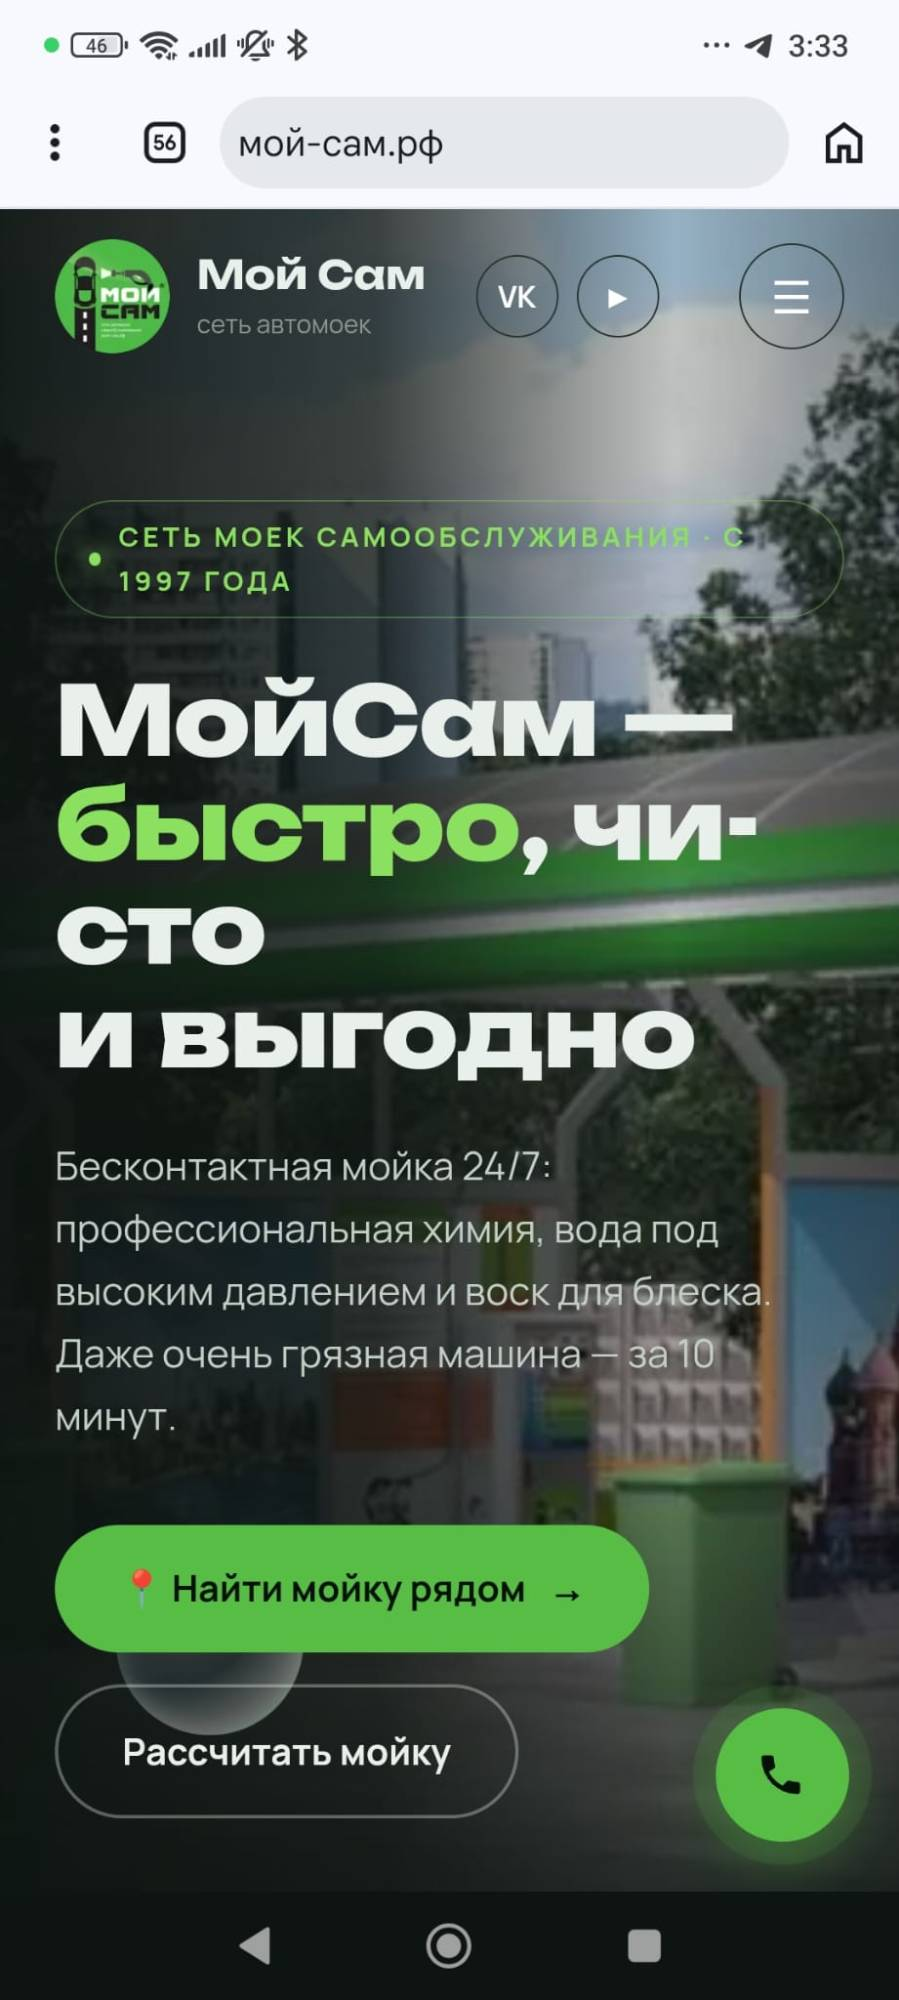
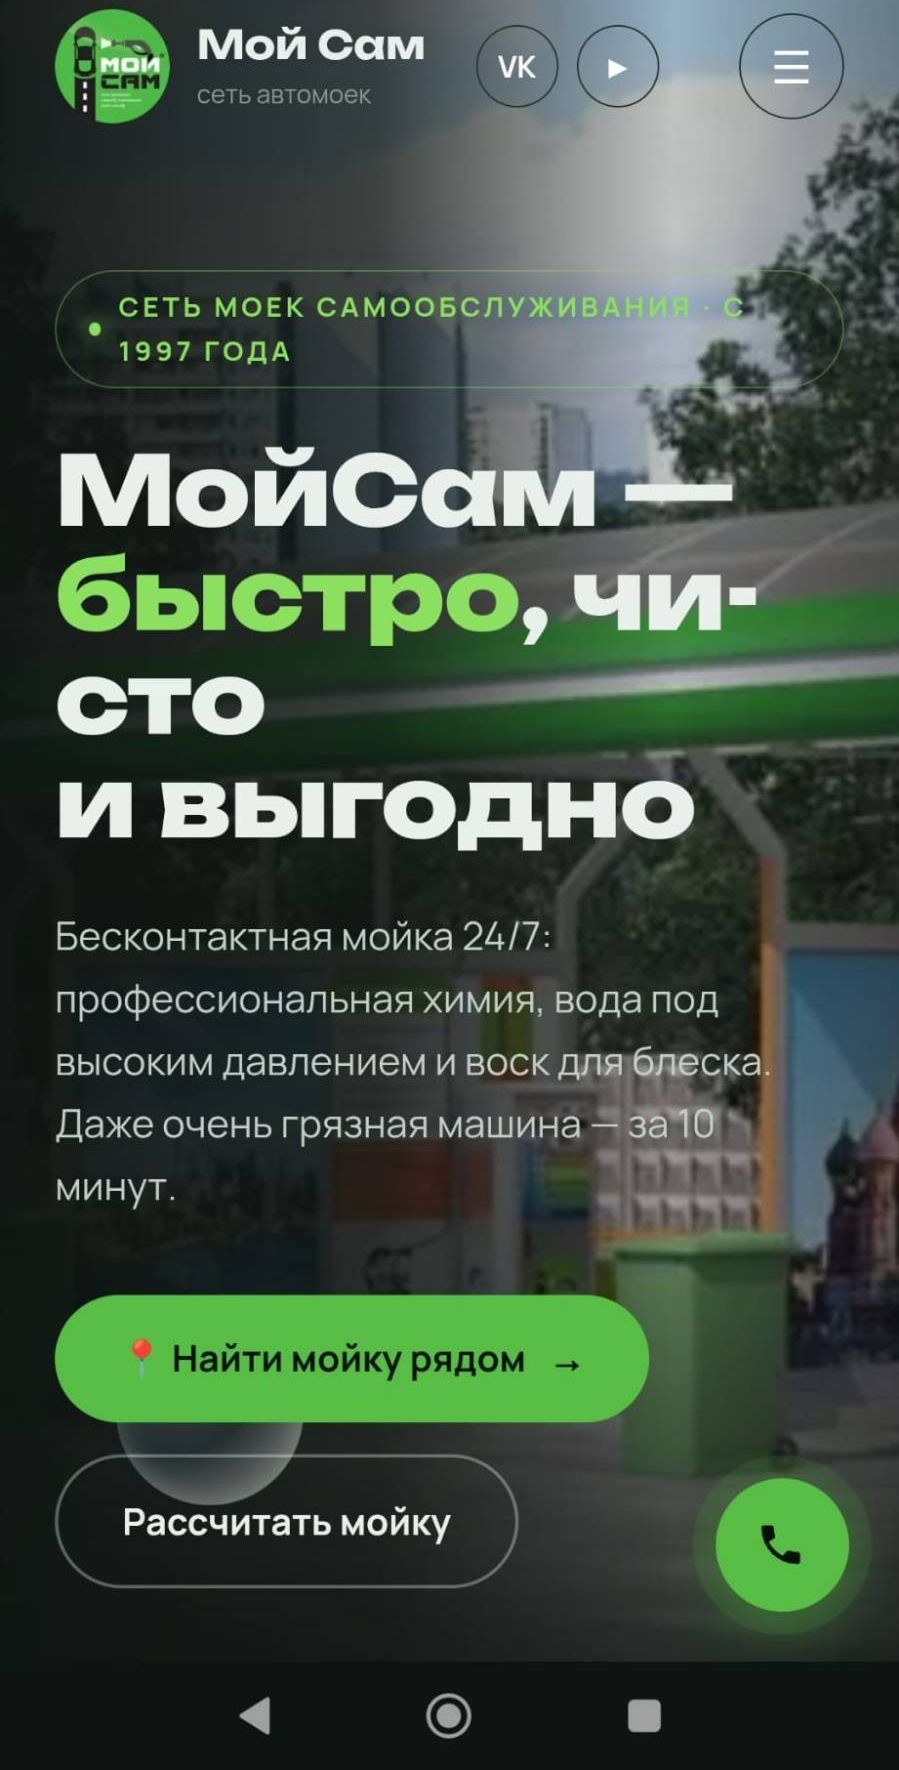
Fix MoySam project card: add desktop screenshot and crop mobile browser bar

diff --git a/app/_components/HomePage.tsx b/app/_components/HomePage.tsx
@@ -1084,9 +1084,16 @@ function Projects({ lang }: { lang: Lang }) {
 
           <article className="project-card project-card--web project-card--moysam reveal">
             <div className="project-sofia-mockup" aria-hidden="true">
-              <div className="sofia-mobile-frame sofia-mobile-frame--center">
+              <div className="sofia-desktop-frame">
+                <div className="sofia-browser-bar">
+                  <div className="sofia-browser-dots"><span /><span /><span /></div>
+                  <div className="sofia-browser-url">мой-сам.рф</div>
+                </div>
+                <img src="/moysam-desktop.jpg" alt="МойСам — сеть автомоек, тצоגת desktop" className="sofia-desktop-img" loading="lazy" />
+              </div>
+              <div className="sofia-mobile-frame">
                 <div className="sofia-mobile-notch" />
-                <img src="/moysam-mobile.jpg" alt="МойСам — сеть автомоек самообслуживания, тцоגת мобайл" className="sofia-mobile-img" style={{ objectPosition: 'center 7%' }} loading="lazy" />
+                <img src="/moysam-mobile.jpg" alt="МойСам — тצоגת мобайл" className="sofia-mobile-img" loading="lazy" />
               </div>
             </div>
             <div className="project-info project-info--web">
